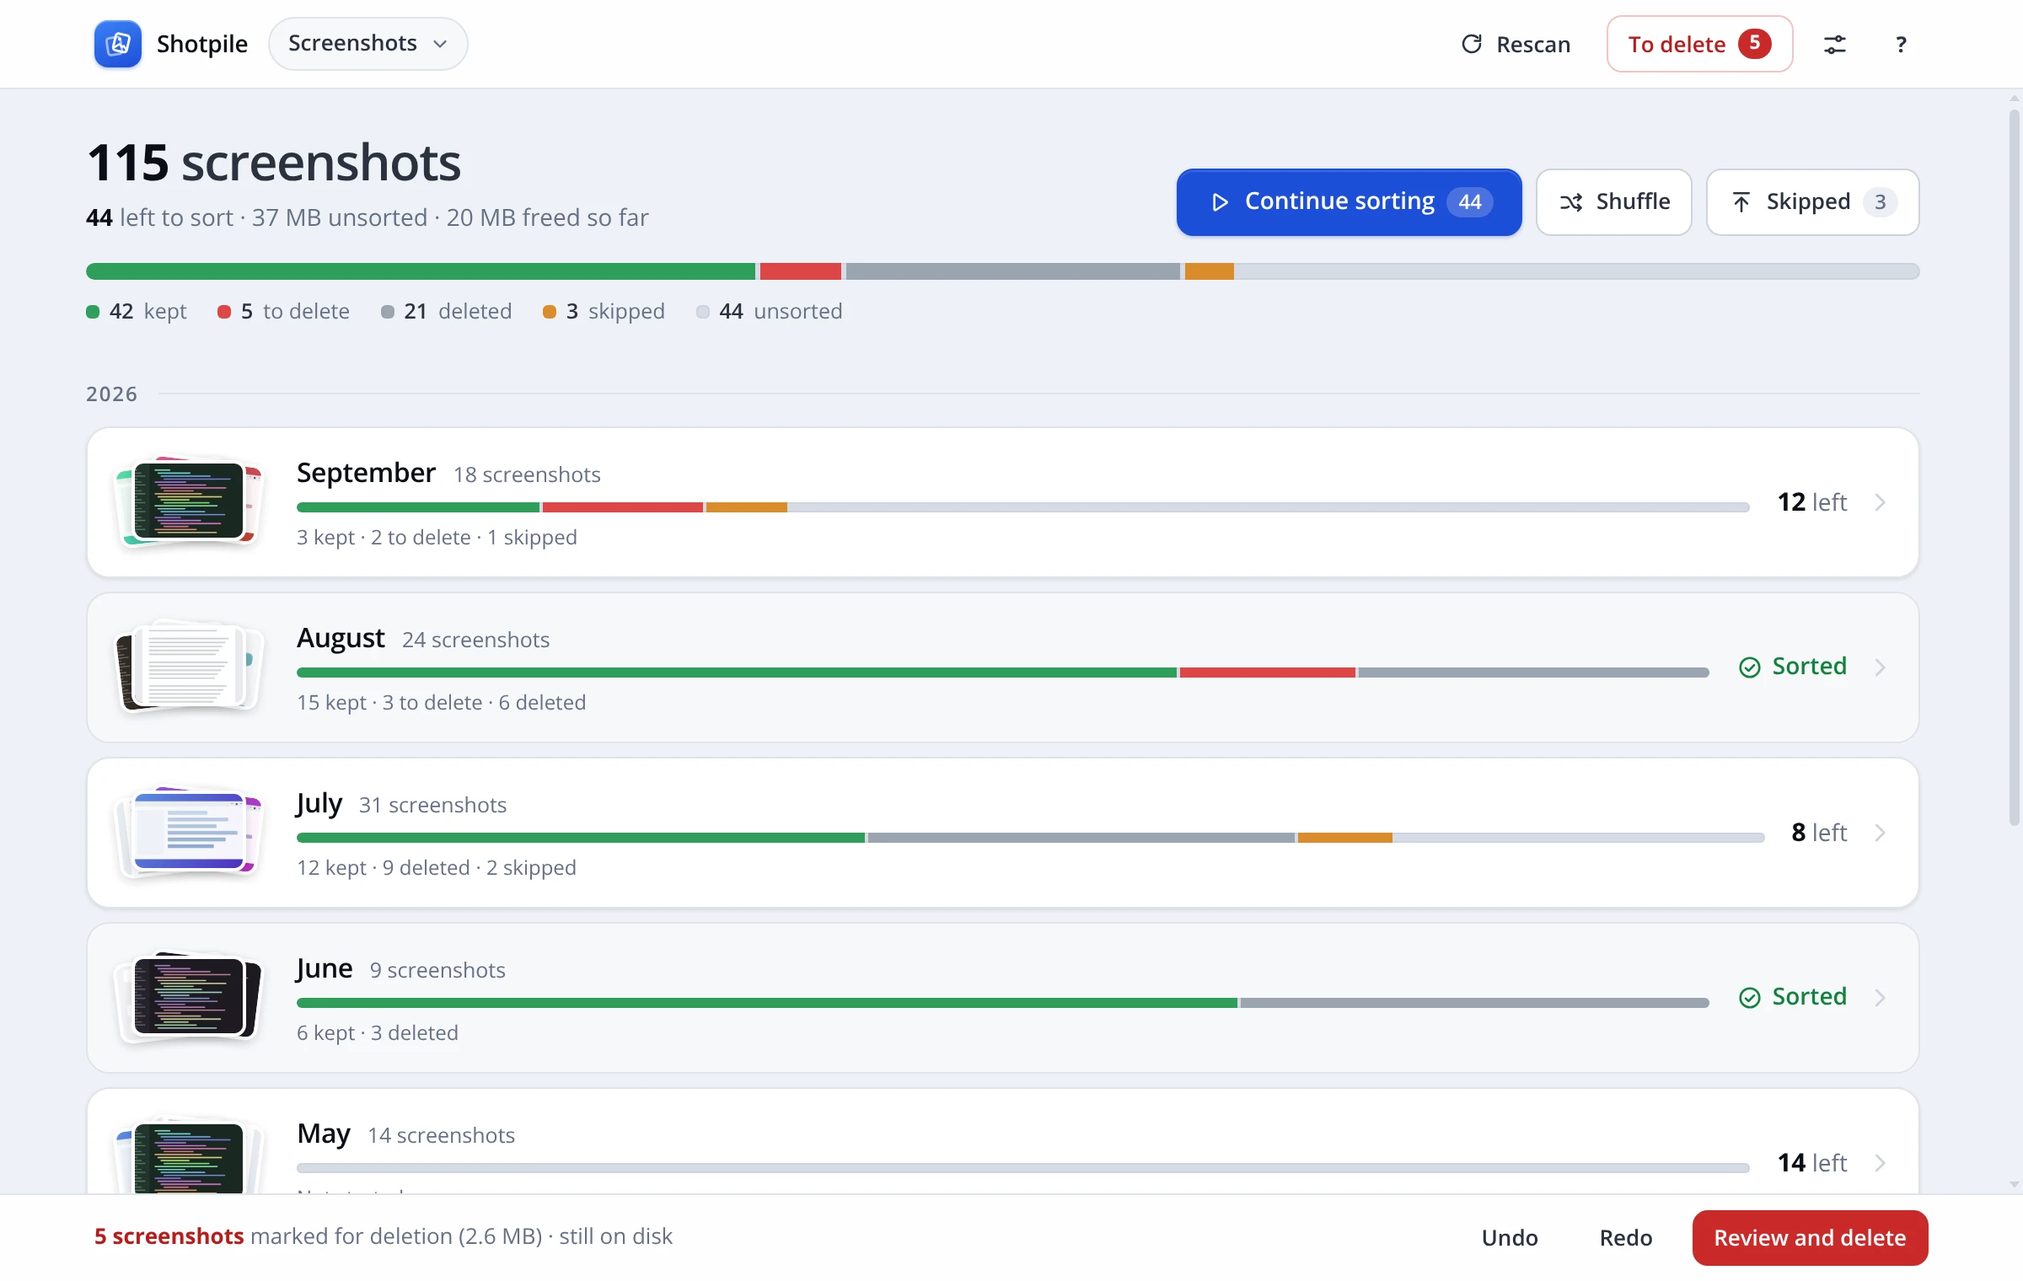
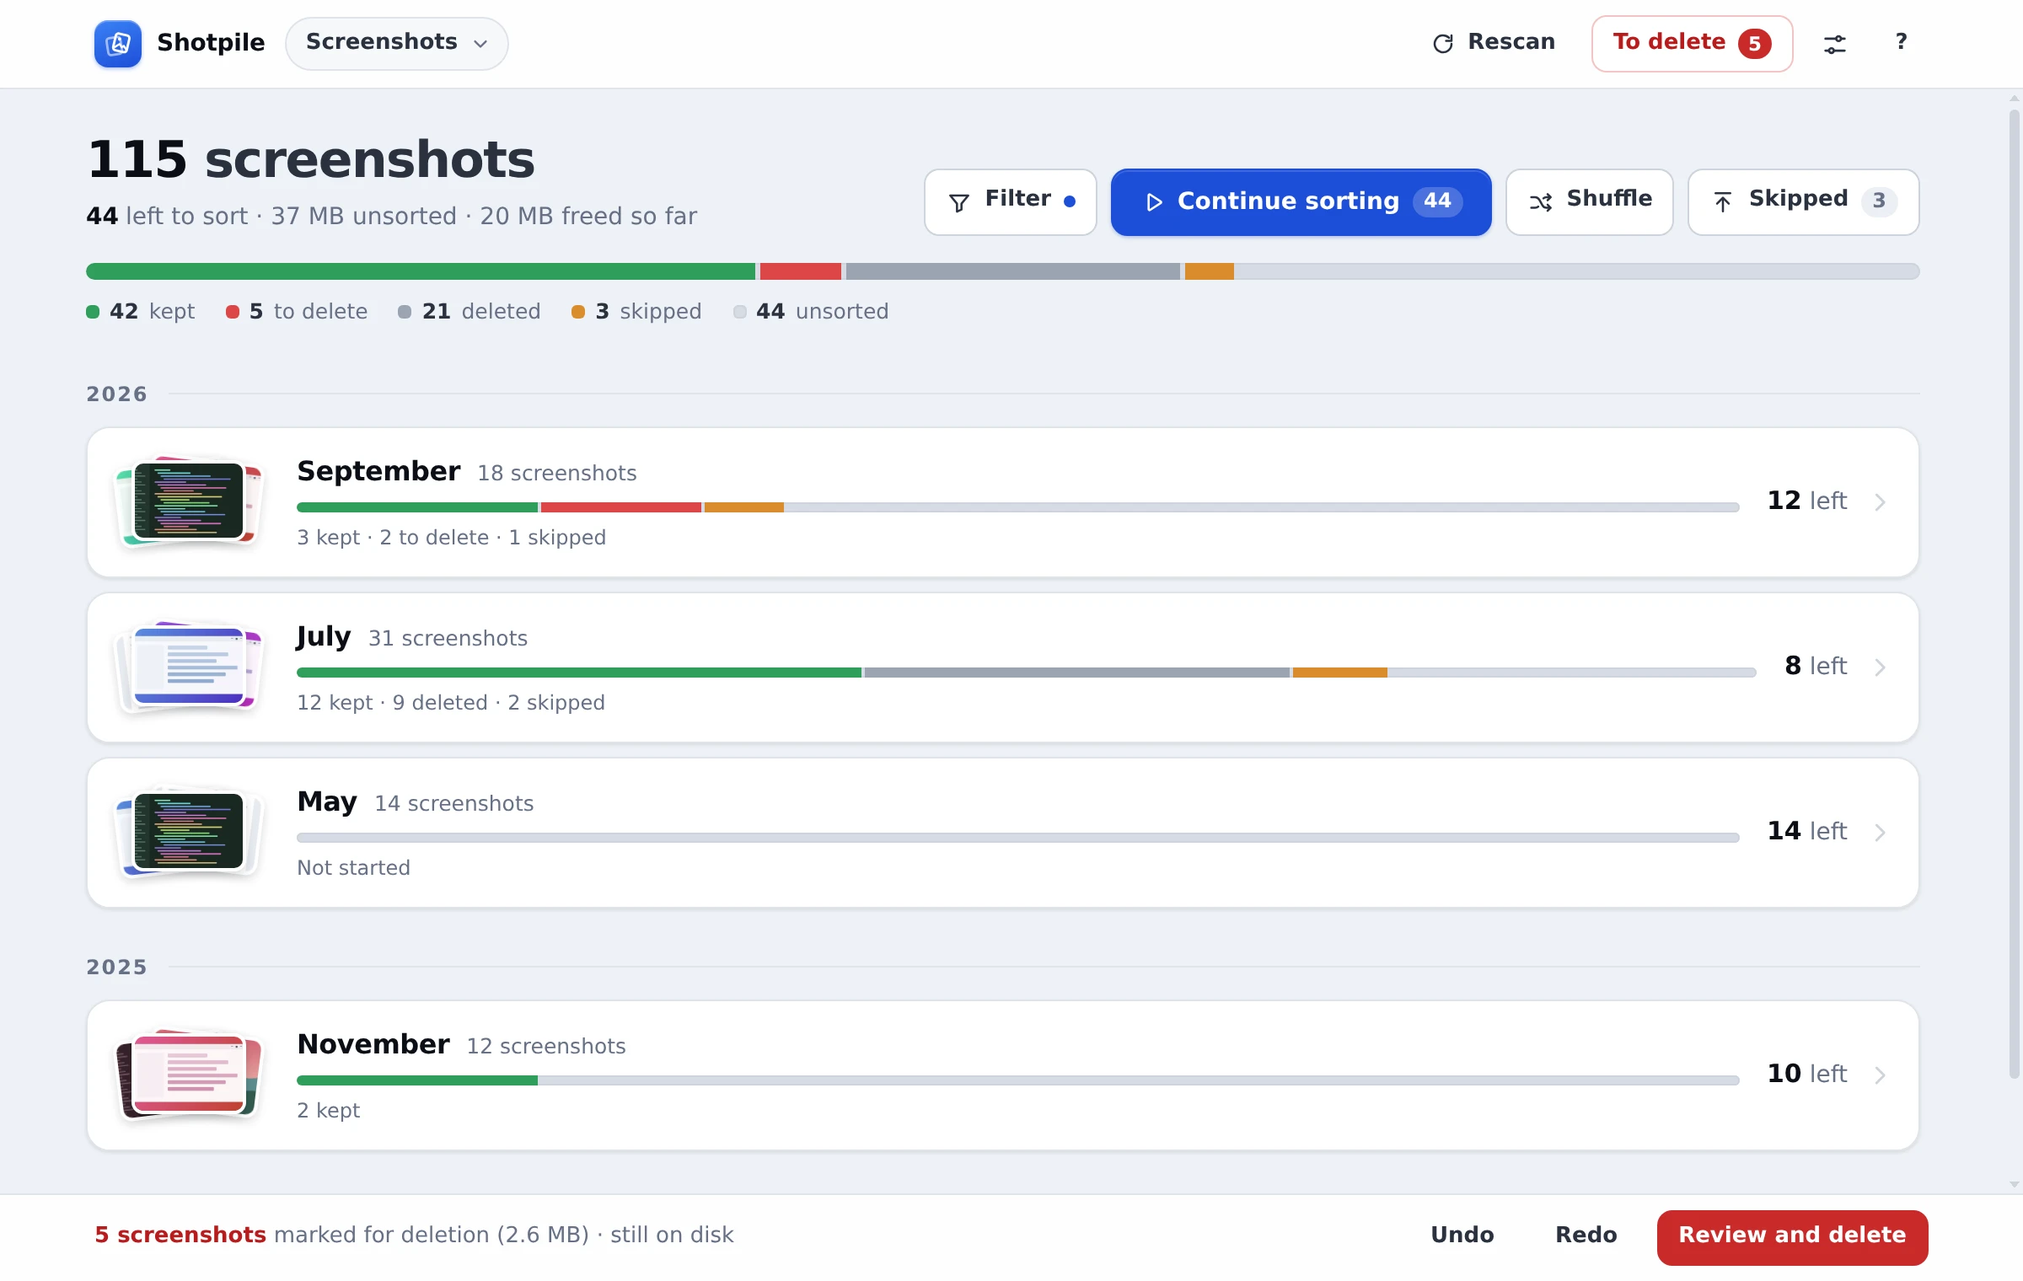
Hide sorted months by default with a Filter dialog, themed toasts and scrollbars, steadier hover on thumbnails, touchpad pinch zoom; 1.2.0
Claude-Session: https://claude.ai/code/session_01DyTzRBqRHvmctE4KRDf3Gn

diff --git a/src/style.css b/src/style.css
@@ -115,6 +115,10 @@
    rule keeps `hidden` authoritative no matter what display an element has. */
 [hidden] { display: none !important; }
 
+/* Every scroller gets the thin themed bar; the page itself hides its own
+   (below). Type selectors outrank this, so `html` keeps its rule. */
+* { scrollbar-width: thin; scrollbar-color: var(--line-2) transparent; }
+
 html, body { margin: 0; padding: 0; min-height: 100%; }
 /* The canvas behind everything: without it a fast scroll or a resize shows the
    WebView's white for a frame before the body repaints. */
@@ -531,6 +535,10 @@ kbd {
 .overview-sub b { color: var(--text); font-variant-numeric: tabular-nums; }
 .overview-sub .ok { color: var(--ok); }
 .overview-actions { display: flex; gap: 8px; flex-wrap: wrap; }
+.btn-dot { width: 7px; height: 7px; border-radius: 50%; background: var(--accent); }
+.filter-note { margin: 22px 2px 0; color: var(--muted); font-size: 12.5px; }
+.linklike { border: 0; background: none; padding: 0; font: inherit; color: var(--accent-text); cursor: pointer; text-decoration: underline; text-underline-offset: 2px; }
+.linklike:hover { color: var(--accent-hover); }
 
 /* Stacked status bar: kept, to delete, deleted, skipped; the track is what is
    still unsorted. */
@@ -589,10 +597,12 @@ kbd {
   font: inherit;
   color: inherit;
   width: 100%;
-  transition: border-color .15s, box-shadow .2s, transform .2s var(--ease-out);
+  transition: border-color .15s, box-shadow .2s;
 }
-.month:hover { border-color: var(--line-2); box-shadow: var(--shadow-md); transform: translateY(-1px); }
-.month:active { transform: translateY(0); }
+/* No transform on the row itself: moving a parent re-rasterises the downscaled
+   photos inside it every frame, which showed as flicker. Border and shadow
+   carry the hover instead. */
+.month:hover { border-color: var(--line-2); box-shadow: var(--shadow-md); }
 .month.is-done { background: var(--surface-2); box-shadow: none; }
 .month.is-done .fan img { filter: saturate(.55); }
 
@@ -615,7 +625,11 @@ kbd {
   box-shadow: 0 2px 6px rgba(13, 18, 24, .16);
   rotate: calc((var(--i) - 1) * 7deg);
   translate: calc((var(--i) - 1) * 9px) calc(var(--i) * -1px);
-  transition: rotate .3s var(--spring), translate .3s var(--spring);
+  transition: rotate .3s var(--spring), translate .3s var(--spring), scale .3s var(--spring);
+  /* Own compositor layer: the photo is rasterised once and then only moved,
+     instead of being resampled on every animation frame. */
+  will-change: rotate, translate, scale;
+  backface-visibility: hidden;
 }
 .fan.n1 img { rotate: 0deg; translate: 0 0; }
 .fan.n2 img { rotate: calc((var(--i) - .5) * 9deg); translate: calc((var(--i) - .5) * 12px) 0; }
@@ -623,6 +637,7 @@ kbd {
 .fan img:nth-child(2) { z-index: 3; }
 .fan img:nth-child(3) { z-index: 2; }
 .month:hover .fan img { rotate: calc((var(--i) - 1) * 12deg); translate: calc((var(--i) - 1) * 15px) calc(var(--i) * -2px); }
+.month:hover .fan.n1 img { scale: 1.06; }
 .month:hover .fan.n2 img { rotate: calc((var(--i) - .5) * 14deg); translate: calc((var(--i) - .5) * 18px) 0; }
 
 .month-main { display: grid; gap: 6px; min-width: 0; }
@@ -1023,7 +1038,7 @@ kbd {
   opacity: .72;
   transition: opacity .15s, transform .2s var(--ease-out), border-color .15s;
 }
-.film-item:hover { opacity: 1; transform: translateY(-2px); }
+.film-item:hover { opacity: 1; }
 .film-item[data-status="pending"] { opacity: .9; }
 
 /* The current item gets the accent ring. Declared after the status rules and
@@ -1133,10 +1148,10 @@ kbd {
   background: var(--surface-3);
   cursor: zoom-in;
   box-shadow: var(--shadow);
-  transition: box-shadow .15s, transform .2s var(--ease-out);
+  transition: box-shadow .15s, border-color .15s;
 }
-.tile-photo:hover { box-shadow: var(--shadow-md); transform: translateY(-2px); }
-.tile-photo img { width: 100%; height: 100%; object-fit: cover; display: block; }
+.tile-photo:hover { box-shadow: var(--shadow-md); border-color: var(--line-2); }
+.tile-photo img { width: 100%; height: 100%; object-fit: cover; display: block; backface-visibility: hidden; }
 .thumb-ext { font-size: 11px; font-weight: 700; letter-spacing: .06em; color: var(--muted); }
 .tile figcaption { display: grid; min-width: 0; padding: 0 2px; }
 .tile-name { font-size: 12.5px; font-weight: 600; white-space: nowrap; overflow: hidden; text-overflow: ellipsis; }
@@ -1296,8 +1311,9 @@ kbd {
   left: 50%;
   top: 62px;
   translate: -50% -10px;
-  background: #10151d;
-  color: #fff;
+  background: var(--surface);
+  color: var(--text);
+  border: 1px solid var(--line-2);
   padding: 9px 10px 9px 14px;
   border-radius: 11px;
   box-shadow: var(--shadow-lg);
@@ -1312,20 +1328,17 @@ kbd {
   z-index: 80;
   max-width: min(680px, calc(100vw - 32px));
   font-size: 13px;
-  border-left: 3px solid transparent;
+  border-left: 3px solid var(--line-2);
 }
 #toast.on { opacity: 1; translate: -50% 0; pointer-events: auto; visibility: visible; transition: opacity .16s, translate .22s var(--ease-out), visibility 0s; }
 /* While a dialog is open the toast stays under the backdrop. */
 #modal:not([hidden]) ~ #toast { z-index: 74; }
-#toast[data-tone="error"] { border-left-color: #f87171; }
-#toast[data-tone="ok"] { border-left-color: #4ade80; }
+#toast[data-tone="error"] { border-left-color: var(--danger-strong); }
+#toast[data-tone="ok"] { border-left-color: var(--seg-kept); }
 #toast .msg { overflow: hidden; text-overflow: ellipsis; }
-#toast button { color: #93c5fd; }
-#toast button:hover { background: rgba(255, 255, 255, .08); }
+#toast button { color: var(--accent-text); }
+#toast button:hover { background: var(--accent-soft); }
 
-:root[data-theme="dark"] #toast { background: #e9eef5; color: #0c1017; }
-:root[data-theme="dark"] #toast button { color: #1d4ed8; }
-:root[data-theme="dark"] #toast button:hover { background: rgba(0, 0, 0, .06); }
 /* ---------- photo viewer ---------- */
 
 .viewer {

diff --git a/src/app.js b/src/app.js
@@ -36,6 +36,7 @@ import {
   statusSegments,
   timeAgo,
   tzOffsetMinutes,
+  wheelZoomFactor,
 } from "./logic.js";
 import { log } from "./log.js";
 import {
@@ -426,6 +427,8 @@ function renderLibrary() {
           ? [h("b", { text: formatCount(pending) }), " left to sort", facts.length ? ` · ${facts.join(" · ")}` : ""]
           : [icon("check-circle", { size: 16, cls: "ok" }), " Everything here is sorted", facts.length ? ` · ${facts.join(" · ")}` : ""])),
       h("div", { class: "overview-actions" },
+        h("button", { class: "btn", id: "btn-filter", title: "Filter the month list", onclick: showFilters },
+          icon("filter", { size: 16 }), "Filter", prefs.get().showDone ? null : h("span", { class: "btn-dot", "aria-hidden": "true" })),
         pending
           ? h("button", { class: "btn primary lg", id: "btn-sort-all", onclick: () => openQueue("unreviewed", null, "All unsorted") },
               icon("play", { size: 16 }), decided ? "Continue sorting" : "Start sorting", h("span", { class: "btn-count", text: formatCount(pending) }))
@@ -439,11 +442,19 @@ function renderLibrary() {
     segbar(s, "lg"),
     legend({ ...s, pending }, ["kept", "staged", "deleted", "skipped", "pending"]));
 
-  const years = groupByYear(state.months).map((g) => h("section", { class: "year" },
+  const showDone = prefs.get().showDone;
+  const shown = showDone ? state.months : state.months.filter((m) => !progressOf(m).done);
+  const hidden = state.months.length - shown.length;
+  const years = groupByYear(shown).map((g) => h("section", { class: "year" },
     h("h2", { class: "section-label", text: g.year }),
     h("div", { class: "months" }, g.months.map(monthRow))));
+  const hiddenNote = hidden
+    ? h("p", { class: "filter-note" },
+        `${countOf(hidden, "sorted month")} hidden. `,
+        h("button", { class: "linklike", onclick: showFilters }, "Change filter"))
+    : null;
 
-  el.view.replaceChildren(h("div", { class: "page" }, overview, years));
+  el.view.replaceChildren(h("div", { class: "page" }, overview, years, hiddenNote));
   el.view.scrollTop = state.libraryScroll;
 }
 
@@ -1040,6 +1051,8 @@ function wireStage(stage) {
   stage.addEventListener("pointerup", onPointerUp);
   stage.addEventListener("pointercancel", onPointerCancel);
   stage.addEventListener("wheel", onWheel, { passive: false });
+  stage.addEventListener("gesturestart", onPinchStart);
+  stage.addEventListener("gesturechange", onPinchChange);
   stage.addEventListener("dblclick", onDoubleClick);
   stage.addEventListener("click", onCardClick);
   stage.addEventListener("dragstart", (e) => e.preventDefault());
@@ -1166,7 +1179,22 @@ function onWheel(e) {
   const zoom = zoomOf(card);
   if (!zoom) return;
   e.preventDefault();
-  zoom.zoomBy(e.deltaY < 0 ? 1.12 : 1 / 1.12, e.clientX, e.clientY);
+  zoom.zoomBy(wheelZoomFactor(e.deltaY, e.deltaMode, e.ctrlKey), e.clientX, e.clientY);
+}
+
+// WKWebView reports a touchpad pinch as gesture events, not ctrl+wheel.
+function onPinchStart(e) {
+  const zoom = zoomOf(topCard());
+  if (!zoom) return;
+  e.preventDefault();
+  zoom.pinchBase = zoom.zoom.scale;
+}
+
+function onPinchChange(e) {
+  const zoom = zoomOf(topCard());
+  if (!zoom) return;
+  e.preventDefault();
+  zoom.zoomBy((zoom.pinchBase * e.scale) / zoom.zoom.scale, e.clientX, e.clientY);
 }
 
 function onDoubleClick(e) {
@@ -1786,6 +1814,32 @@ async function copyText(text, what) {
   }
 }
 
+/** What the library lists. Today that is whether sorted months show; more
+    filters can join here. */
+function showFilters() {
+  const buttons = [[false, "Hide"], [true, "Show"]].map(([value, label]) => h("button", {
+    type: "button",
+    "aria-pressed": String(prefs.get().showDone === value),
+    dataset: { showDone: String(value) },
+    text: label,
+    onclick: (e) => {
+      prefs.set({ showDone: value });
+      log.info("filter", `sorted months ${label.toLowerCase()}`);
+      for (const b of e.currentTarget.parentElement.children) b.setAttribute("aria-pressed", String(b === e.currentTarget));
+      render();
+    },
+  }));
+  modal({
+    title: "Filter",
+    cls: "options-sheet",
+    body: h("section", { class: "opt-group" },
+      h("div", { class: "opt-row" },
+        h("div", { class: "opt-label" }, "Sorted months", h("small", { text: "Months with nothing left to sort. Their screenshots still count in the totals." })),
+        h("div", { class: "segmented", role: "group", "aria-label": "Sorted months" }, buttons))),
+    actions: [{ label: "Close" }],
+  });
+}
+
 const THEME_LABEL = { system: "System", light: "Light", dark: "Dark" };
 
 function showOptions() {
@@ -2105,11 +2159,19 @@ el.undo.addEventListener("click", () => undo());
 el.redo.addEventListener("click", () => redo());
 el.options.addEventListener("click", showOptions);
 document.addEventListener("contextmenu", onContextMenu);
+const WHEEL_STEP = 40;
+let wheelAcc = 0;
 // Ctrl + wheel zooms the app in steps, through the same preference.
 window.addEventListener("wheel", (e) => {
-  if (!e.ctrlKey) return;
+  // Over a photo the wheel (and a pinch, which arrives as ctrl+wheel) already
+  // zoomed the photo; elsewhere ctrl zooms the app. A pinch is many tiny
+  // events, so they add up to a step instead of stepping once each.
+  if (!e.ctrlKey || e.defaultPrevented) return;
   e.preventDefault();
-  zoomApp(e.deltaY < 0 ? 1 : -1);
+  wheelAcc += e.deltaMode === 0 ? e.deltaY : e.deltaY * 16;
+  if (Math.abs(wheelAcc) < WHEEL_STEP) return;
+  zoomApp(wheelAcc < 0 ? 1 : -1);
+  wheelAcc = 0;
 }, { passive: false });
 el.stagedBtn.addEventListener("click", openStaged);
 el.help.addEventListener("click", showShortcuts);

diff --git a/src/boot.js b/src/boot.js
@@ -11,11 +11,12 @@
   "use strict";
   var KEY = "shotpile.prefs";
   var THEMES = ["system", "light", "dark"];
-  var prefs = { theme: "system", zoom: 1 };
+  var prefs = { theme: "system", zoom: 1, showDone: false };
   try {
     var saved = JSON.parse(localStorage.getItem(KEY) || "{}");
     if (THEMES.indexOf(saved.theme) !== -1) prefs.theme = saved.theme;
     if (typeof saved.zoom === "number" && saved.zoom >= 0.5 && saved.zoom <= 2) prefs.zoom = saved.zoom;
+    if (typeof saved.showDone === "boolean") prefs.showDone = saved.showDone;
   } catch (e) {
     // Storage can be unavailable or hold junk; the defaults stand.
   }
@@ -31,11 +32,12 @@
   window.shotpilePrefs = {
     THEMES: THEMES,
     get: function () {
-      return { theme: prefs.theme, zoom: prefs.zoom };
+      return { theme: prefs.theme, zoom: prefs.zoom, showDone: prefs.showDone };
     },
     set: function (patch) {
       if (patch.theme !== undefined && THEMES.indexOf(patch.theme) !== -1) prefs.theme = patch.theme;
       if (typeof patch.zoom === "number") prefs.zoom = Math.min(2, Math.max(0.5, Math.round(patch.zoom * 100) / 100));
+      if (typeof patch.showDone === "boolean") prefs.showDone = patch.showDone;
       try {
         localStorage.setItem(KEY, JSON.stringify(prefs));
       } catch (e) {

diff --git a/src/viewer.js b/src/viewer.js
@@ -6,7 +6,7 @@
  * While open it owns the keyboard (see `viewerKeydown`).
  */
 
-import { anchorZoom, clampScale, containedSize, formatBytes, formatDateTime, panLimit } from "./logic.js";
+import { anchorZoom, clampScale, containedSize, formatBytes, formatDateTime, panLimit, wheelZoomFactor } from "./logic.js";
 import { h, icon } from "./dom.js";
 import { log } from "./log.js";
 
@@ -72,8 +72,16 @@ export function openViewer(shot, { src, inherit = null, onClose = null } = {}) {
 
   overlay.addEventListener("wheel", (e) => {
     e.preventDefault();
-    zoomBy(e.deltaY < 0 ? 1.12 : 1 / 1.12, e.clientX, e.clientY);
+    zoomBy(wheelZoomFactor(e.deltaY, e.deltaMode, e.ctrlKey), e.clientX, e.clientY);
   }, { passive: false });
+
+  // WKWebView reports a touchpad pinch as gesture events, not ctrl+wheel.
+  let pinchBase = 1;
+  overlay.addEventListener("gesturestart", (e) => { e.preventDefault(); pinchBase = v.scale; });
+  overlay.addEventListener("gesturechange", (e) => {
+    e.preventDefault();
+    zoomBy((pinchBase * e.scale) / v.scale, e.clientX, e.clientY);
+  });
 
   frame.addEventListener("pointerdown", (e) => {
     if (e.button !== 0) return;

diff --git a/src/logic.js b/src/logic.js
@@ -129,6 +129,19 @@ export function anchorZoom(dx, dy, x, y, nextScale, scale) {
   return { x: dx - (dx - x) * k, y: dy - (dy - y) * k };
 }
 
+/**
+ * The zoom factor for one wheel event. A mouse wheel sends big steps (about
+ * 100 px per notch), a touchpad sends many small ones, and a touchpad pinch
+ * arrives as a ctrl+wheel with deltas of a few pixels. An exponential of the
+ * delta makes all three feel alike, where a fixed step per event made a
+ * touchpad jump or stall. Line and page modes are scaled to pixels first.
+ */
+export function wheelZoomFactor(deltaY, deltaMode = 0, pinch = false) {
+  const px = deltaMode === 1 ? deltaY * 16 : deltaMode === 2 ? deltaY * 400 : deltaY;
+  const capped = Math.max(-120, Math.min(120, px));
+  return Math.exp(-capped * (pinch ? 0.012 : 0.0016));
+}
+
 /** Clamps a scale to the 1x..MAX_ZOOM range the viewer and card both use. */
 export function clampScale(scale, factor, min = 1, max = MAX_ZOOM) {
   return Math.min(max, Math.max(min, scale * factor));

diff --git a/src/icons.js b/src/icons.js
@@ -16,6 +16,7 @@ const P = {
   undo: '<path d="M8.5 14.5L4 10l4.5-4.5"/><path d="M4 10h10a5.5 5.5 0 0 1 0 11h-3"/>',
   redo: '<path d="M15.5 14.5L20 10l-4.5-4.5"/><path d="M20 10H10a5.5 5.5 0 0 0 0 11h3"/>',
   copy: '<rect x="8.5" y="8.5" width="11" height="11" rx="2"/><path d="M15.5 8.5V6.2a1.7 1.7 0 0 0-1.7-1.7H6.2a1.7 1.7 0 0 0-1.7 1.7v7.6a1.7 1.7 0 0 0 1.7 1.7h2.3"/>',
+  filter: '<path d="M4 6h16l-6 7.2v5.3l-4 1.8v-7.1z"/>',
   sliders: '<path d="M4 7h9M17 7h3M4 17h3M11 17h9"/><circle cx="15" cy="7" r="2"/><circle cx="9" cy="17" r="2"/>',
   folder:
     '<path d="M3.5 7.2A1.7 1.7 0 0 1 5.2 5.5h3.9l2 2.1h7.7a1.7 1.7 0 0 1 1.7 1.7v8.5a1.7 1.7 0 0 1-1.7 1.7H5.2a1.7 1.7 0 0 1-1.7-1.7z"/>',

diff --git a/README.md b/README.md
@@ -22,7 +22,8 @@ up in. A big folder is counted as it scans, so a first scan never looks stuck.
 
 **See what is left.** The library shows the whole folder as one bar (kept,
 marked for deletion, deleted, skipped, unsorted), then a row per month. Click
-a month to sort it, *Continue sorting* to go through everything unsorted,
+a month to sort it (months you have finished are hidden; *Filter* brings them
+back), *Continue sorting* to go through everything unsorted,
 newest first, or *Shuffle* to get the same in random order, which turns up
 forgotten screenshots from years ago next to yesterday's. *Skipped* brings back
 what you put off.
@@ -95,9 +96,9 @@ it, the first start moves its database over and your decisions carry on.
   the next scan of its folder counts it as kept.
 - **The filmstrip** under the buttons shows the last few decisions and what is
   coming; click any of them to jump there.
-- **Zoom.** Scroll to zoom the card around the cursor (up to 8×); once zoomed,
+- **Zoom.** Scroll or pinch on a touchpad to zoom the card around the cursor (up to 8×); once zoomed,
   a drag pans instead of deciding. The whole app zooms with `Ctrl` and `+`,
-  `-`, `0` or the mouse wheel, and the layout tightens up at 125% or 150%
+  `-`, `0` or `Ctrl` and the wheel, and the layout tightens up at 125% or 150%
   display scaling rather than cutting things off.
 - **Several folders.** The folder name in the header switches between saved
   folders, adds another, or forgets one. Forgetting only removes it from the
@@ -159,8 +160,8 @@ runner, and publishes them as one GitHub release. Start it either by pushing a
 version tag:
 
 ```powershell
-git tag v1.1.0
-git push origin v1.1.0
+git tag v1.2.0
+git push origin v1.2.0
 ```
 
 or by hand from the Actions tab (*Release*, *Run workflow*): pick the branch

diff --git a/AGENTS.md b/AGENTS.md
@@ -91,8 +91,8 @@ is always `db`, then `undo`.
 ## Verify before claiming done
 
 ```powershell
-npm run test:logic                          # 44 frontend logic tests
-npm run test:gui                            # 230 GUI assertions in headless Chrome
+npm run test:logic                          # 45 frontend logic tests
+npm run test:gui                            # 235 GUI assertions in headless Chrome
 cd src-tauri; cargo test                    # 71 unit + 4 end-to-end tests
 cd src-tauri; cargo clippy --all-targets -- -D warnings
 cd src-tauri; cargo fmt --check
